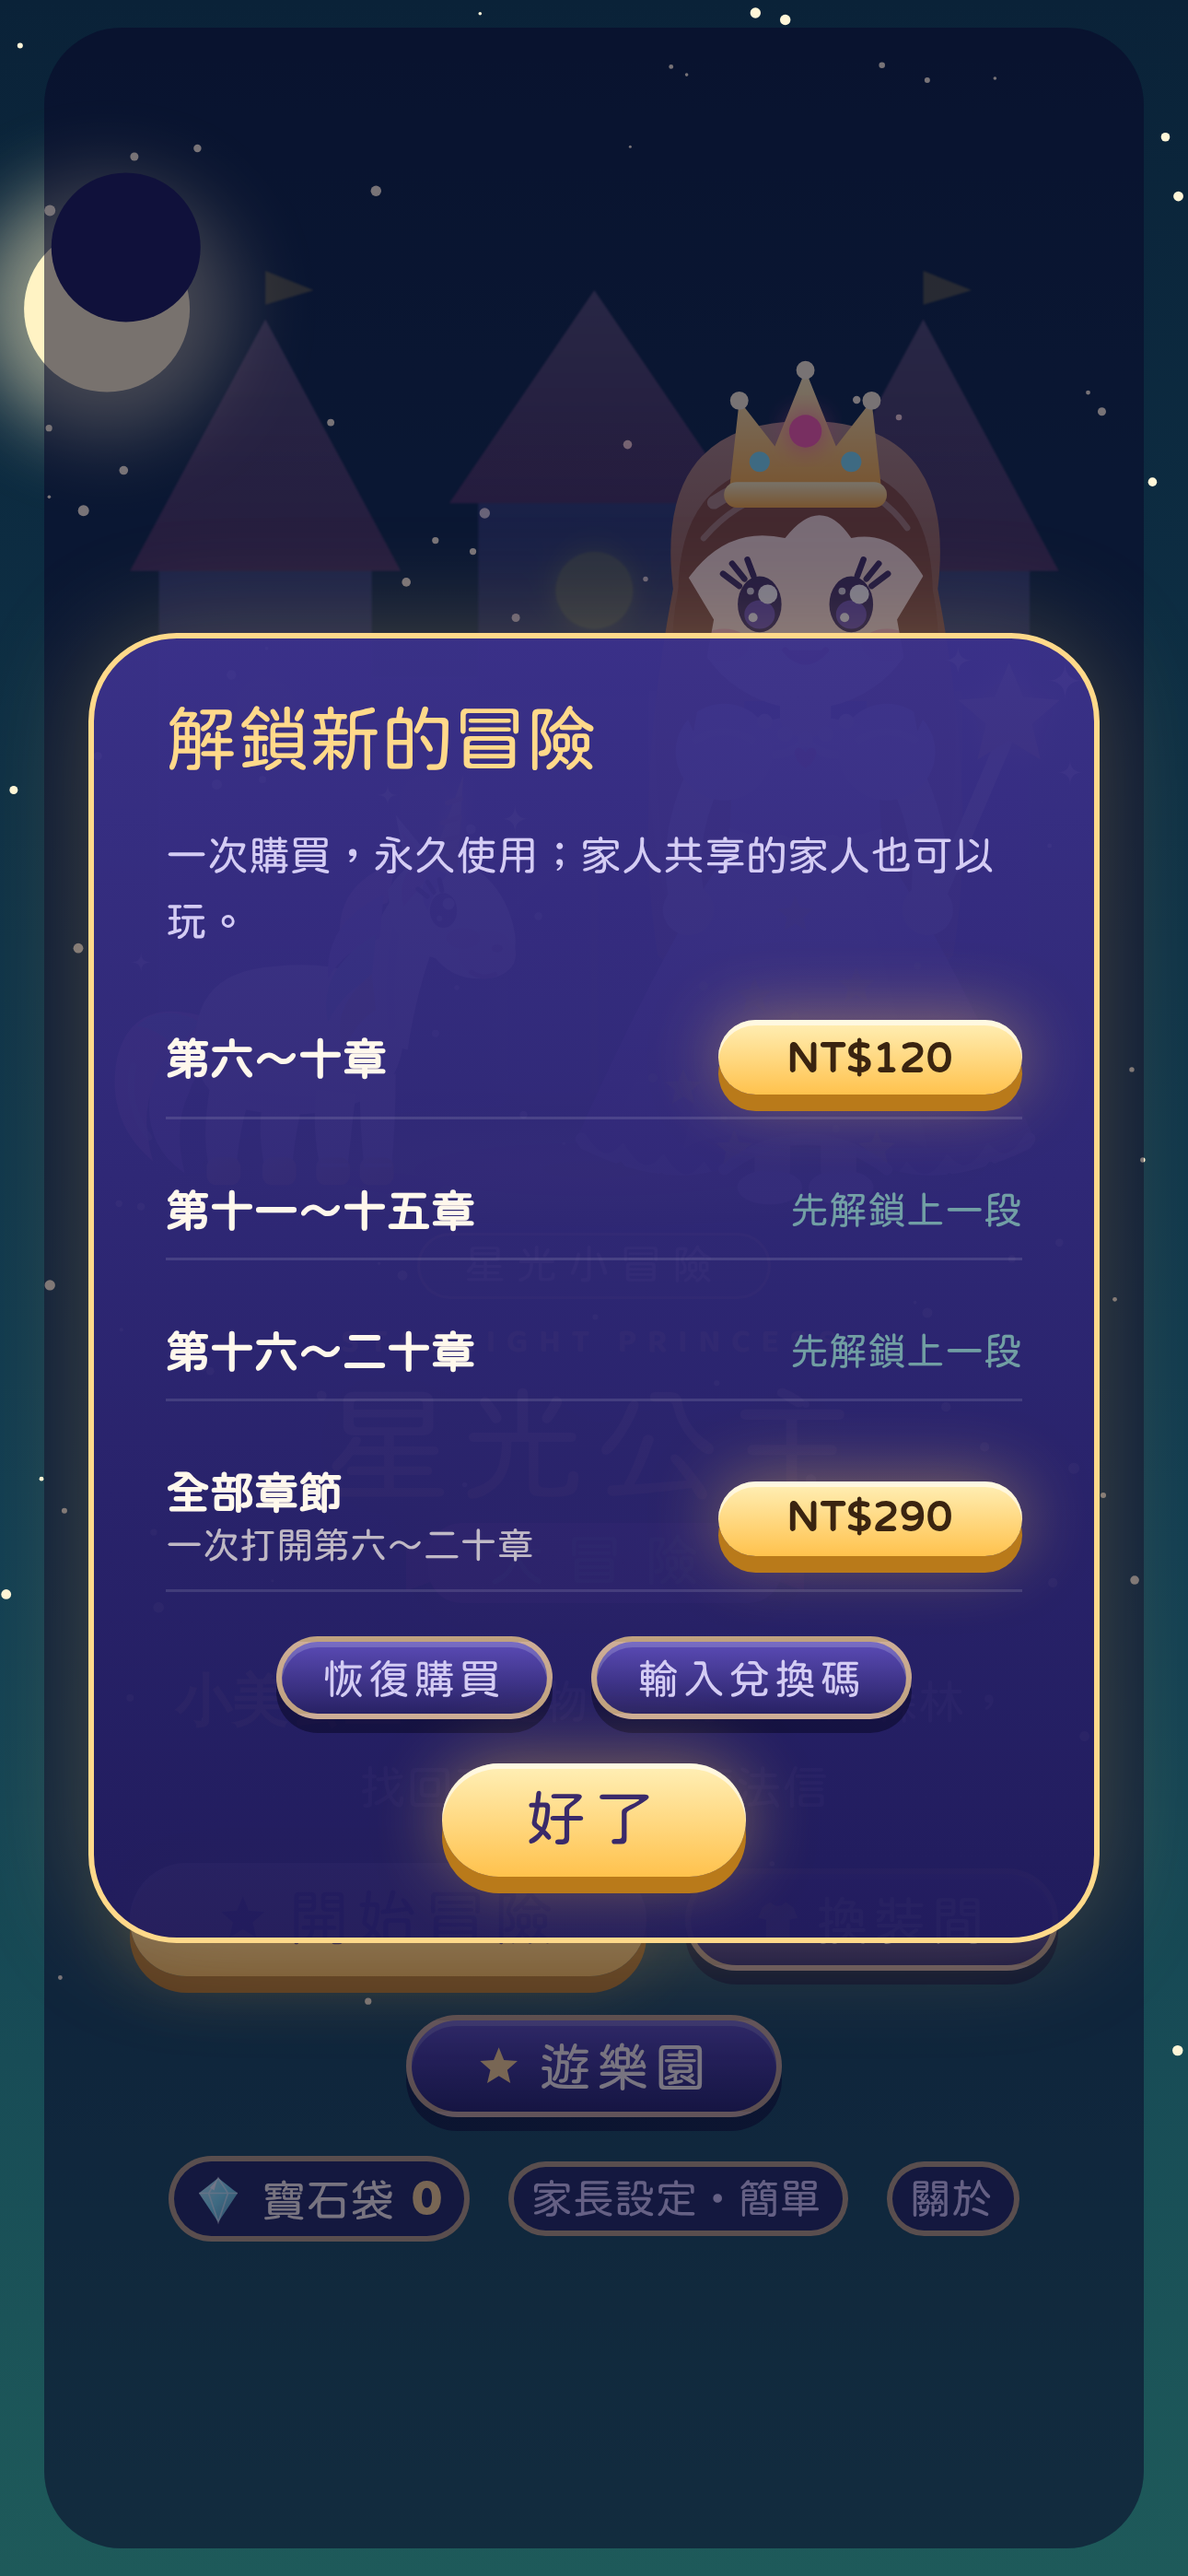
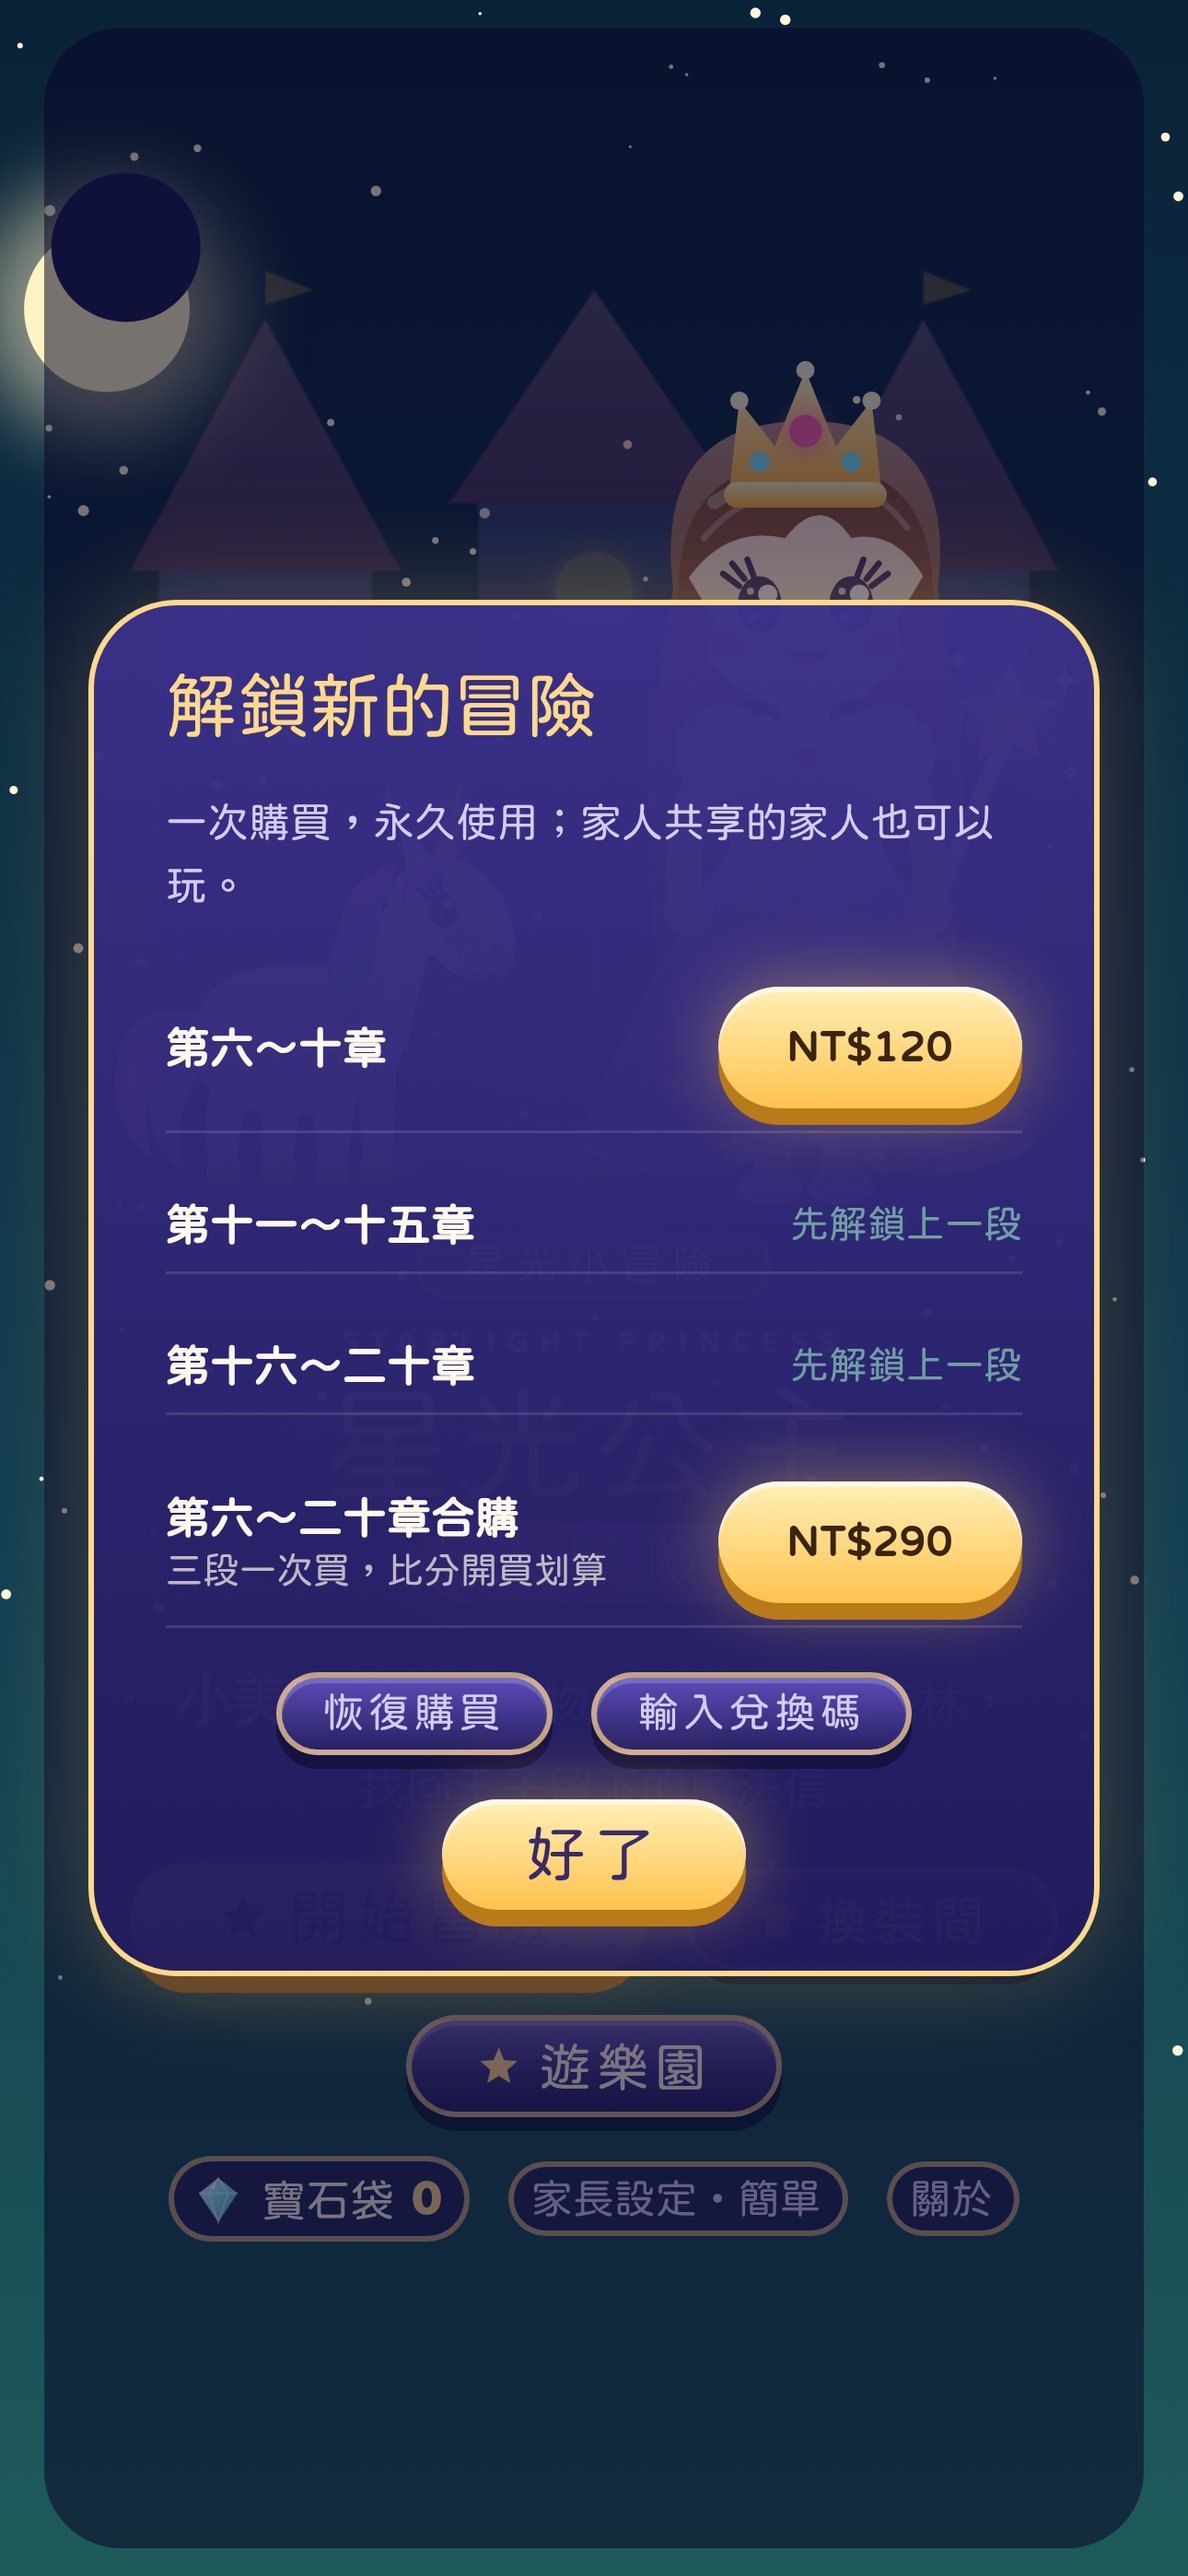
3.7.0：合購改名「第六～二十章合購」（之後新增章節另外賣）；App 與購買項目不在歐盟上架
Claude-Session: https://claude.ai/code/session_01323vahwBoEBw3PomYoYBvj

diff --git a/index.html b/index.html
@@ -8300,7 +8300,7 @@ try{const sc=$('#screen');if(sc)new MutationObserver(ms=>{if(ms.some(m=>m.target
      tw.starlight.adventure.stage2  第六～十章    NT$120
      tw.starlight.adventure.stage3  第十一～十五章 NT$120
      tw.starlight.adventure.stage4  第十六～二十章 NT$120
-     tw.starlight.adventure.full    全部章節     NT$290（已經買過任何一段的人，就不顯示「全部章節」，避免重複付費）
+     tw.starlight.adventure.full    第六～二十章合購 NT$290（已經買過任何一段的人，就不顯示合購，避免重複付費）
    每個商品都要在 App Store Connect 打開「家人共享」；上線時也要更新上架說明和給審查人員的說明
    m61_app.js 已經會看 window.__chOpen（這個檔設定）；「爸爸媽媽可以幫你打開新的冒險喔！」已經錄好（pack23）
    規則：購買入口只在「家長設定」裡（App 版的家長設定要先答算術題）；小朋友點鎖住的章節只會聽到「爸爸媽媽可以幫你打開」，不會跳出商店；不賣衣服、寶石、房間東西 */
@@ -8308,7 +8308,7 @@ const iapPlugin=()=>{const C=window.Capacitor;if(!C)return null;if(C.Plugins&&C.
 const IAP_ON=IS_APP&&!!iapPlugin();
 const IAPP='tw.starlight.adventure.';
 // 以後新增章節：在這裡加一行（例如 ['stage5','第二十一～二十五章',20,25]），App Store Connect 也建同名商品；
-// 「全部章節」(full) 只包含 FULLSET 裡的段落，之後新增的段落要另外買
+// 合購 (full) 只包含 FULLSET 裡的段落，之後新增的段落要另外買
 const STAGES=[['stage2','第六～十章',5,10],['stage3','第十一～十五章',10,15],['stage4','第十六～二十章',15,20]];
 const FULLSET=['stage2','stage3','stage4'];
 const IAPKEY='pp4iap';
@@ -8334,7 +8334,7 @@ if(IAP_ON){try{
   const btn=id=>price(id)?`<button class="btn small" data-buy="${id}">${price(id)}</button>`:'<i class="na">暫時無法購買，請確認網路後再打開一次</i>';
   const rows=STAGES.map(([id,n],k)=>`<div class="iaprow"><span><b>${n}</b></span>${stageOpen(id)?'<i>已解鎖 ✓</i>':k&&!stageOpen(STAGES[k-1][0])?'<i class="na">先解鎖上一段</i>':btn(id)}</div>`).join('');const anyStage=STAGES.some(([id])=>iapOwned().includes(id));
   const ov=overlay(screen,`<div class="card left iapcard"><h2>解鎖新的冒險</h2><p class="small">一次購買，永久使用；家人共享的家人也可以玩。</p>${rows}
-   ${iapOwned().includes('full')||anyStage?'':`<div class="iaprow full"><span><b>全部章節</b><br><small>一次打開第六～二十章</small></span>${btn('full')}</div>`}
+   ${iapOwned().includes('full')||anyStage?'':`<div class="iaprow full"><span><b>第六～二十章合購</b><br><small>三段一次買，比分開買划算</small></span>${btn('full')}</div>`}
    <div class="row"><button class="btn2 small" id="iaprs">恢復購買</button><button class="btn2 small" id="iapcode">輸入兌換碼</button></div><button class="btn" id="iapx">好了</button></div>`);
   $('#iapx',ov).onclick=()=>{ov.remove();go(bought?'world':'title')};
   $$('[data-buy]',ov).forEach(b=>b.onclick=async()=>{b.disabled=true;try{const t=await NP.purchaseProduct({productIdentifier:IAPP+b.dataset.buy,quantity:1});if(t){bought=1;iapSave(iapOwned().concat([b.dataset.buy]));toast('解鎖了！');confetti();ov.remove();shop();setTimeout(()=>sync(false),3000)}else{b.disabled=false;await sync(false);if(stageOpen(b.dataset.buy)){bought=1;ov.remove();shop()}}}catch(e){toast(/pending|deferred|ask/i.test(String(e&&e.message||e))?'已經送出，等家長同意後就會打開':'沒有完成購買');b.disabled=false}});

diff --git a/app/ci_iap.py b/app/ci_iap.py
@@ -13,7 +13,7 @@ ITEMS = [
     ('stage2', 'Chapters 6-10', '第六～十章', '解鎖第六章到第十章的冒險，一次購買永久使用', 120),
     ('stage3', 'Chapters 11-15', '第十一～十五章', '解鎖第十一章到第十五章的冒險，一次購買永久使用', 120),
     ('stage4', 'Chapters 16-20', '第十六～二十章', '解鎖第十六章到第二十章的冒險，一次購買永久使用', 120),
-    ('full', 'All Chapters 6-20', '全部章節', '一次解鎖第六章到第二十章的所有冒險', 290),
+    ('full', 'Chapters 6-20 Bundle', '第六～二十章合購', '一次解鎖第六章到第二十章（三段合購）', 290),
 ]
 NOTE = ('Non-consumable unlock for story chapters. The purchase screen is only reachable from Parent Settings, '
         'which is behind a parental gate (multiplication question). Children tapping a locked chapter only hear '
@@ -57,7 +57,28 @@ if not app:
     print('::error::找不到 App ' + BUNDLE); raise SystemExit(1)
 app_id = app[0]['id']
 have = {x['attributes']['productId']: x for x in all_pages(f'/v1/apps/{app_id}/inAppPurchasesV2?limit=200')}
-terr = [t['id'] for t in all_pages('/v1/territories?limit=200') if t['id'] != 'CHN']
+# 不上架的地區：中國大陸、歐盟 27 國（歐盟收費要公開地址，先不上）
+EU = ['AUT', 'BEL', 'BGR', 'HRV', 'CYP', 'CZE', 'DNK', 'EST', 'FIN', 'FRA', 'DEU', 'GRC', 'HUN', 'IRL', 'ITA', 'LVA', 'LTU',
+      'LUX', 'MLT', 'NLD', 'POL', 'PRT', 'ROU', 'SVK', 'SVN', 'ESP', 'SWE']
+SKIP = set(['CHN'] + EU)
+terr = [t['id'] for t in all_pages('/v1/territories?limit=200') if t['id'] not in SKIP]
+
+# App 本身也從歐盟拿掉（失敗的話只提醒，請到 App Store Connect 手動取消勾選）
+eu_note = ''
+try:
+    av = call('GET', f'/v1/apps/{app_id}/appAvailabilityV2', ok404=True)
+    if av and av.get('data'):
+        tas = all_pages(f'/v2/appAvailabilities/{av["data"]["id"]}/territoryAvailabilities?include=territory&limit=200')
+        off = 0
+        for ta in tas:
+            tid = ((ta.get('relationships') or {}).get('territory') or {}).get('data', {}).get('id')
+            if tid in EU and (ta.get('attributes') or {}).get('available'):
+                call('PATCH', f'/v1/territoryAvailabilities/{ta["id"]}', {'data': {'type': 'territoryAvailabilities', 'id': ta['id'], 'attributes': {'available': False}}})
+                off += 1
+        eu_note = f'App 已從歐盟 {off} 個國家拿掉（原本就沒上的不算）'
+except SystemExit:
+    eu_note = '歐盟地區可能沒有全部拿掉，請到 App Store Connect →「價格與供應狀況」確認歐盟國家都沒有勾選'
+
 report = []
 
 for code, ref, name, desc, price in ITEMS:
@@ -104,9 +125,9 @@ for code, ref, name, desc, price in ITEMS:
         'included': [{'type': 'inAppPurchasePrices', 'id': '${p1}', 'attributes': {'startDate': None},
                       'relationships': {'inAppPurchaseV2': {'data': {'type': 'inAppPurchases', 'id': iid}},
                                         'inAppPurchasePricePoint': {'data': {'type': 'inAppPurchasePricePoints', 'id': pp['id']}}}}]})
-    # 4. 地區：跟 App 一樣（中國大陸以外）
-    av = call('GET', f'/v2/inAppPurchases/{iid}/inAppPurchaseAvailability', ok404=True)
-    if not (av and av.get('data')):
+    # 4. 地區：跟 App 一樣（中國大陸、歐盟以外）
+    # 每次都重新設定（POST 會取代原本的地區設定，確保歐盟、中國大陸不在裡面）
+    if True:
         call('POST', '/v1/inAppPurchaseAvailabilities', {'data': {'type': 'inAppPurchaseAvailabilities',
              'attributes': {'availableInNewTerritories': True}, 'relationships': {
                  'inAppPurchase': {'data': {'type': 'inAppPurchases', 'id': iid}},
@@ -133,4 +154,6 @@ for code, ref, name, desc, price in ITEMS:
     report.append(f'{name}：NT${got:g}，狀態 {st}')
     print(pid, 'ok', got, st)
 
+if eu_note:
+    report.append(eu_note)
 print('::notice title=App 內購買項目::' + '%0A'.join(report))
